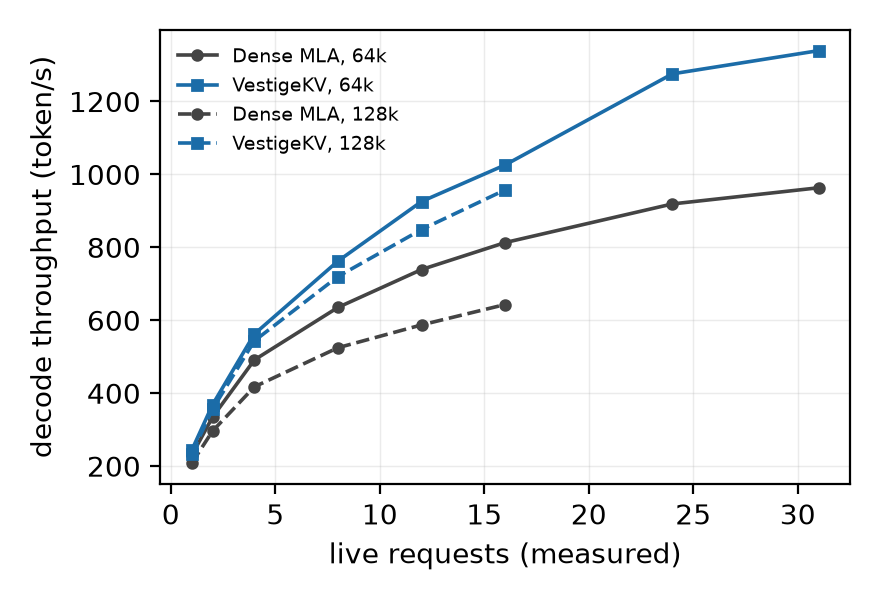
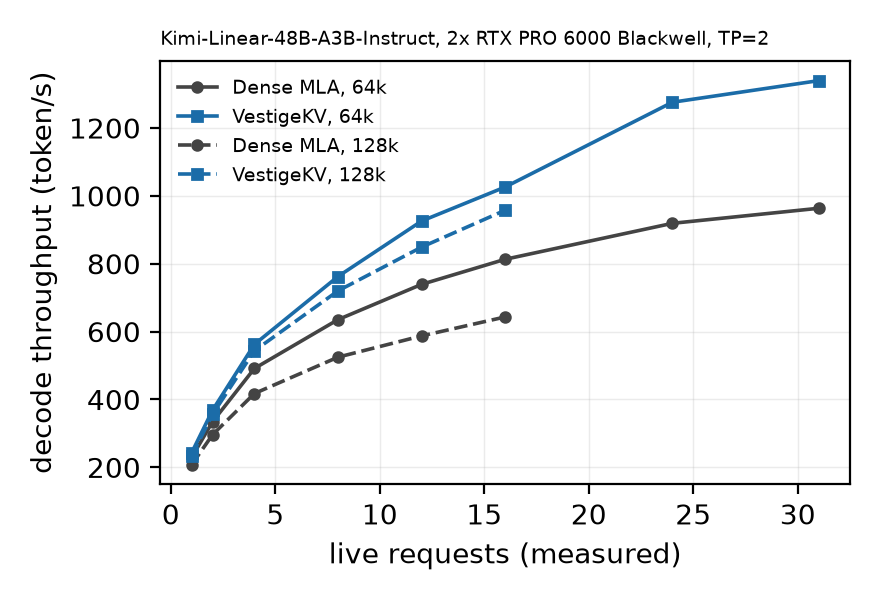
README: quality tables generated from the records; figures name the setup
The Results-at-a-glance section gains the GSM8K-Platinum, MAUVE (4k and 64k
prefill) and RULER (13 tasks x 4k-64k, n=50, Base and Instruct) tables,
written by mexp/kimi/make_readme_tables.py between markers through the same
parsers the paper's macro generators use. The four MAUVE verdict records the
paper cites by name were dropped from results/ by the archive commit and are
restored under results/quality/ (177 bytes each).

make_figures.py titles both panels with the checkpoint and TP width read from
the plotted server logs (required to agree across them) plus the box, and the
README's figure note names the script that actually draws them.

diff --git a/mexp/kimi/make_readme_tables.py b/mexp/kimi/make_readme_tables.py
@@ -1,0 +1,162 @@
+#!/usr/bin/env python3
+"""Write the README's quality tables from the records the paper's macros read.
+
+    python mexp/kimi/make_readme_tables.py           # print, compare
+    python mexp/kimi/make_readme_tables.py --emit    # rewrite the README block
+
+The block between the two `<!-- quality-tables:... -->` markers in README.md is
+generated; nothing inside it is typed. Every number comes through the same
+parsers the paper's macro generators use (make_ruler_numbers, make_gsm8k_numbers)
+or from the MAUVE verdict records under results/quality/, so the README, the
+paper and the records cannot disagree without this script saying so.
+"""
+from __future__ import annotations
+
+import argparse
+import json
+import os
+import sys
+
+HERE = os.path.dirname(os.path.abspath(__file__))
+ROOT = os.path.dirname(os.path.dirname(HERE))
+sys.path.insert(0, HERE)
+
+import make_gsm8k_numbers as gsm  # noqa: E402
+import make_ruler_numbers as ruler  # noqa: E402
+
+README = os.path.join(ROOT, "README.md")
+BEGIN = "<!-- quality-tables:begin (generated by mexp/kimi/make_readme_tables.py; do not edit) -->"
+END = "<!-- quality-tables:end -->"
+QUALITY = os.path.join(ROOT, "results", "quality")
+LENGTHS = [4096, 8192, 16384, 32768, 65536]
+N_RULER = 50
+# (display, ruler line, gsm8k macro suffix, mauve record suffix)
+CHECKPOINTS = [("Base", "kimi_base", "", "base"), ("Instruct", "kimi", "I", "instruct")]
+SETUP = "Kimi-Linear-48B-A3B, 2x RTX PRO 6000 Blackwell, TP=2"
+
+
+def mauve(name):
+    p = os.path.join(QUALITY, name)
+    if not os.path.exists(p):
+        return None
+    j = json.load(open(p))
+    return j["mauve_eng"], j["mauve_vk"], j["n_ctx"], j["gen_tokens"], j["verdict"]
+
+
+def fmt_pct(v):
+    return "pending" if v is None else f"{v:.2f}"
+
+
+def headline_rows():
+    """The four (checkpoint x arm) cells the paper's Table 1 prints."""
+    rows = []
+    # GSM8K-Platinum: counts, the way the macros carry them
+    cells = []
+    for _, _, suf, _ in CHECKPOINTS:
+        for arm, mac in (("baseline", "Base"), ("vestigekv", "Vk")):
+            r = gsm.read(arm, gsm.ARMS[(arm, mac + suf)])
+            cells.append("pending" if r is None else f"{r[0]} / {r[1]} ({100 * r[0] / r[1]:.1f}%)")
+    rows.append(("GSM8K-Platinum, 64-shot, full set", cells))
+    # MAUVE, short and long prefill
+    for label, stem in (("MAUVE, 4k prefill", "quality_mauve_scores_{}.json"),
+                        ("MAUVE, 64k prefill", "quality_mauve64k64_verdict{}.json")):
+        cells, note = [], ""
+        for _, _, _, msuf in CHECKPOINTS:
+            name = stem.format(msuf if "scores" in stem else ("_" + msuf if msuf == "instruct" else ""))
+            m = mauve(name)
+            if m is None:
+                cells += ["pending", "pending"]
+                continue
+            eng, vk, n_ctx, gen, verdict = m
+            cells += [f"{eng:.4f}", f"{vk:.4f}"]
+            note = f" ({n_ctx} contexts x {gen} generated tokens, gate vk >= dense - 0.10: {verdict})"
+        rows.append((label + note, cells))
+    # RULER mean over the 13-task x 5-length grid
+    cells = []
+    for _, line, _, _ in CHECKPOINTS:
+        for arm in ("baseline", "vestigekv"):
+            r = ruler.load(line, arm, N_RULER, LENGTHS)
+            vals = [ruler.cell(r, t, l) for t in ruler.TASKS for l in LENGTHS] if r else []
+            vals = [v for v in vals if v is not None]
+            cells.append("pending" if not vals else f"{sum(vals) / len(vals):.3f}")
+    rows.append((f"RULER mean, 13 tasks x 4k-64k, n={N_RULER}/cell", cells))
+    return rows
+
+
+def ruler_grid(display, line):
+    arms = {a: ruler.load(line, a, N_RULER, LENGTHS) for a in ("baseline", "vestigekv")}
+    if any(r is None for r in arms.values()):
+        return [f"*RULER grid for {display}: pending*", ""]
+    out = [f"**RULER, {display} checkpoint** (dense / VestigeKV, accuracy, n={N_RULER} per cell):", "",
+           "| task | " + " | ".join(f"{l // 1024}k" for l in LENGTHS) + " | mean |",
+           "|---|" + "---|" * (len(LENGTHS) + 1)]
+    col_d = {l: [] for l in LENGTHS}
+    col_v = {l: [] for l in LENGTHS}
+    for t in ruler.TASKS:
+        ds = [ruler.cell(arms["baseline"], t, l) for l in LENGTHS]
+        vs = [ruler.cell(arms["vestigekv"], t, l) for l in LENGTHS]
+        for l, d, v in zip(LENGTHS, ds, vs):
+            if d is not None and v is not None:
+                col_d[l].append(d)
+                col_v[l].append(v)
+        md = [d for d in ds if d is not None]
+        mv = [v for v in vs if v is not None]
+        cells = [f"{fmt_pct(d)} / {fmt_pct(v)}" for d, v in zip(ds, vs)]
+        mean = (f"{sum(md) / len(md):.3f} / {sum(mv) / len(mv):.3f}" if md and mv else "pending")
+        out.append(f"| {t} | " + " | ".join(cells) + f" | {mean} |")
+    means = [f"{sum(col_d[l]) / len(col_d[l]):.3f} / {sum(col_v[l]) / len(col_v[l]):.3f}"
+             if col_d[l] else "pending" for l in LENGTHS]
+    alld = [x for l in LENGTHS for x in col_d[l]]
+    allv = [x for l in LENGTHS for x in col_v[l]]
+    out.append("| **mean** | " + " | ".join(means)
+               + f" | **{sum(alld) / len(alld):.3f} / {sum(allv) / len(allv):.3f}** |")
+    out.append("")
+    return out
+
+
+def render():
+    L = [BEGIN, "", f"**Quality** ({SETUP}; dense = the same tree with `--attention-backend triton`,",
+         "VestigeKV = `--attention-backend vestigekv_mla`, seed 0, greedy):", "",
+         "| | Base, dense | Base, VestigeKV | Instruct, dense | Instruct, VestigeKV |",
+         "|---|---|---|---|---|"]
+    for label, cells in headline_rows():
+        L.append(f"| {label} | " + " | ".join(cells) + " |")
+    L.append("")
+    L.append("GSM8K-Platinum is madrylab/gsm8k-platinum (n=1209, label-corrected gsm8k test set), "
+             "64-shot, exact match on the final answer. MAUVE is scored against the reference "
+             "continuations of the same prompts (`mexp/m7_mauve_serving.py`); the 4k and 64k rows "
+             "differ in prefill length. RULER is lm-eval's 13-task suite; the 4k-64k grid below "
+             "is the one the paper's Table reads (`mexp/kimi/make_ruler_numbers.py`). Records: "
+             "`results/kimi/gsm8k_*`, `results/quality/quality_mauve*.json`, "
+             "`results/kimi/ruler/results_*_n50_*.json`.")
+    L.append("")
+    for display, line, _, _ in CHECKPOINTS:
+        L += ruler_grid(display, line)
+    L.append(END)
+    return "\n".join(L)
+
+
+def main():
+    ap = argparse.ArgumentParser()
+    ap.add_argument("--emit", action="store_true")
+    a = ap.parse_args()
+    block = render()
+    text = open(README).read()
+    i, j = text.find(BEGIN), text.find(END)
+    if i < 0 or j < 0:
+        raise SystemExit("ABORT: README.md carries no quality-tables markers")
+    new = text[:i] + block + text[j + len(END):]
+    if new == text:
+        print("README block already current")
+        return 0
+    if a.emit:
+        open(README, "w").write(new)
+        print(f"README block rewritten ({block.count(chr(10))} lines)")
+    else:
+        print(block)
+        print("\n(dry run; --emit to write)")
+    return 0
+
+
+if __name__ == "__main__":
+    raise SystemExit(main())

diff --git a/mexp/kimi/make_figures.py b/mexp/kimi/make_figures.py
@@ -24,7 +24,9 @@ queue is live).
 from __future__ import annotations
 
 import argparse
+import glob
 import os
+import re
 import sys
 
 HERE = os.path.dirname(os.path.abspath(__file__))
@@ -43,6 +45,32 @@ ARM_STYLE = {"dense": ("#444444", "o", "Dense MLA"),
              "vestigekv": ("#1b6ca8", "s", "VestigeKV")}
 LAT_KEY = {"dense": "dense", "vestigekv": "vestigekv"}
 THR_KEY = {"dense": "baseline", "vestigekv": "vestigekv"}
+# The box the logs were produced on (mexp/kimi/common.sh); the logs carry the
+# model and the TP width but not the GPU, so this one string is typed.
+HARDWARE = "2x RTX PRO 6000 Blackwell"
+
+
+def provenance():
+    """'<model>, <hardware>, TP=<n>' for the panel titles, read from every
+    server log a panel draws from and required to agree -- a figure that
+    named a model its data did not come from would be the caption drift this
+    script exists to remove, one level up."""
+    logs = [os.path.join(speed.RESULTS, n) for n in speed.LOGS.values()]
+    for _, (_, prefix) in tput.CONTEXTS.items():
+        logs += glob.glob(os.path.join(tput.RESULTS, f"server_*_{prefix}-bs*.log"))
+    models, tps = set(), set()
+    for path in logs:
+        head = open(path, errors="replace").read(400000)
+        m = re.search(r"'model_path': '([^']*)'", head)
+        t = re.search(r"'tp_size': (\d+)", head)
+        if not (m and t):
+            raise SystemExit(f"ABORT: {os.path.basename(path)} carries no model_path/tp_size")
+        models.add(m.group(1).split("/")[-1])
+        tps.add(t.group(1))
+    if len(models) != 1 or len(tps) != 1:
+        raise SystemExit(f"ABORT: the panels' logs disagree on model {sorted(models)} "
+                         f"or TP {sorted(tps)}; one figure cannot show two setups")
+    return f"{models.pop()}, {HARDWARE}, TP={tps.pop()}"
 
 
 def latency_series():
@@ -72,13 +100,14 @@ def throughput_series():
     return have
 
 
-def draw(lat, thr, out_dir, emit):
+def draw(lat, thr, out_dir, emit, title):
     import matplotlib
     matplotlib.use("Agg")
     import matplotlib.pyplot as plt
 
     # ---- left: per-token latency against context ----
     fig, ax = plt.subplots(figsize=(4.4, 3.0), dpi=200)
+    ax.set_title(title, fontsize=7, loc="left")
     for arm, (color, marker, label) in ARM_STYLE.items():
         xs = [c / 1024 for c, _ in lat[LAT_KEY[arm]]]
         ys = [v for _, v in lat[LAT_KEY[arm]]]
@@ -105,6 +134,7 @@ def draw(lat, thr, out_dir, emit):
 
     # ---- right: throughput against the concurrency the server actually ran ----
     fig, ax = plt.subplots(figsize=(4.4, 3.0), dpi=200)
+    ax.set_title(title, fontsize=7, loc="left")
     dash = {65536: "-", 131072: "--"}
     for ctx in sorted(thr):
         if not thr[ctx]:
@@ -142,7 +172,9 @@ def main():
     thr = throughput_series()
     for ctx in sorted(thr):
         print(f"  throughput {ctx // 1024}k: live {sorted(thr[ctx])}")
-    draw(lat, thr, a.out, a.emit)
+    title = provenance()
+    print(f"  title: {title}")
+    draw(lat, thr, a.out, a.emit, title)
     return 0
 
 

diff --git a/README.md b/README.md
@@ -37,9 +37,64 @@ bf16; no quantization anywhere.
 | ![decode latency vs S](results/fig_latency_curve.png) | bs=1 streaming decode: one request prefilled at 4k and decoded continuously to 512k; per-token latency vs. sequence length, vestigekv vs. dense (same tree, triton backend). Crossover ~28k; 1.28x at 256k, 1.46x at 496k. |
 | ![throughput vs batch](results/fig_throughput.png) | Throughput: 64k prefill + 4k decode, batch 1..32; attention cannot batch while shared weights amortize, so the vestigekv advantage grows with batch (+12.4% at bs=12). |
 
-*(Both figures are produced by `mexp/bench/plot_curve_jsonl.py` and
-`plot_batch_throughput.py` from the frozen raw data in `results/`; the exact
+*(Both figures are produced by `mexp/kimi/make_figures.py --emit --out results/`
+from the same server logs the paper's macros are read from; the panel title
+names the checkpoint and the box as read from those logs. The exact
 collection commands are in the experiment steps below.)*
+
+<!-- quality-tables:begin (generated by mexp/kimi/make_readme_tables.py; do not edit) -->
+
+**Quality** (Kimi-Linear-48B-A3B, 2x RTX PRO 6000 Blackwell, TP=2; dense = the same tree with `--attention-backend triton`,
+VestigeKV = `--attention-backend vestigekv_mla`, seed 0, greedy):
+
+| | Base, dense | Base, VestigeKV | Instruct, dense | Instruct, VestigeKV |
+|---|---|---|---|---|
+| GSM8K-Platinum, 64-shot, full set | 1027 / 1209 (84.9%) | 1031 / 1209 (85.3%) | 1107 / 1209 (91.6%) | 1097 / 1209 (90.7%) |
+| MAUVE, 4k prefill (16 contexts x 256 generated tokens, gate vk >= dense - 0.10: PASS) | 0.9997 | 0.9960 | 0.9345 | 0.9805 |
+| MAUVE, 64k prefill (64 contexts x 256 generated tokens, gate vk >= dense - 0.10: PASS) | 0.9954 | 0.9987 | 0.9905 | 0.9861 |
+| RULER mean, 13 tasks x 4k-64k, n=50/cell | 0.922 | 0.860 | 0.942 | 0.920 |
+
+GSM8K-Platinum is madrylab/gsm8k-platinum (n=1209, label-corrected gsm8k test set), 64-shot, exact match on the final answer. MAUVE is scored against the reference continuations of the same prompts (`mexp/m7_mauve_serving.py`); the 4k and 64k rows differ in prefill length. RULER is lm-eval's 13-task suite; the 4k-64k grid below is the one the paper's Table reads (`mexp/kimi/make_ruler_numbers.py`). Records: `results/kimi/gsm8k_*`, `results/quality/quality_mauve*.json`, `results/kimi/ruler/results_*_n50_*.json`.
+
+**RULER, Base checkpoint** (dense / VestigeKV, accuracy, n=50 per cell):
+
+| task | 4k | 8k | 16k | 32k | 64k | mean |
+|---|---|---|---|---|---|---|
+| niah_single_1 | 1.00 / 1.00 | 1.00 / 1.00 | 1.00 / 1.00 | 1.00 / 1.00 | 1.00 / 1.00 | 1.000 / 1.000 |
+| niah_single_2 | 1.00 / 1.00 | 1.00 / 1.00 | 1.00 / 1.00 | 1.00 / 1.00 | 1.00 / 1.00 | 1.000 / 1.000 |
+| niah_single_3 | 1.00 / 1.00 | 1.00 / 0.98 | 1.00 / 1.00 | 1.00 / 1.00 | 1.00 / 1.00 | 1.000 / 0.996 |
+| niah_multikey_1 | 1.00 / 1.00 | 0.98 / 0.98 | 1.00 / 1.00 | 1.00 / 1.00 | 1.00 / 0.98 | 0.996 / 0.992 |
+| niah_multikey_2 | 1.00 / 1.00 | 1.00 / 0.90 | 1.00 / 0.86 | 1.00 / 0.86 | 1.00 / 0.76 | 1.000 / 0.876 |
+| niah_multikey_3 | 1.00 / 1.00 | 1.00 / 0.64 | 1.00 / 0.34 | 1.00 / 0.22 | 1.00 / 0.16 | 1.000 / 0.472 |
+| niah_multiquery | 1.00 / 1.00 | 1.00 / 1.00 | 1.00 / 1.00 | 1.00 / 1.00 | 1.00 / 1.00 | 1.000 / 1.000 |
+| niah_multivalue | 0.97 / 0.96 | 0.97 / 0.97 | 0.97 / 0.98 | 0.99 / 0.99 | 0.99 / 1.00 | 0.981 / 0.980 |
+| ruler_vt | 1.00 / 1.00 | 1.00 / 1.00 | 1.00 / 1.00 | 1.00 / 0.99 | 1.00 / 1.00 | 1.000 / 0.998 |
+| ruler_cwe | 1.00 / 0.99 | 0.94 / 0.94 | 0.93 / 0.92 | 0.72 / 0.61 | 0.25 / 0.13 | 0.768 / 0.717 |
+| ruler_fwe | 0.97 / 0.97 | 0.96 / 0.95 | 0.99 / 0.97 | 0.98 / 0.97 | 0.91 / 0.79 | 0.960 / 0.933 |
+| ruler_qa_squad | 0.72 / 0.72 | 0.69 / 0.66 | 0.67 / 0.57 | 0.62 / 0.61 | 0.60 / 0.54 | 0.659 / 0.622 |
+| ruler_qa_hotpot | 0.62 / 0.62 | 0.64 / 0.60 | 0.62 / 0.58 | 0.64 / 0.58 | 0.60 / 0.56 | 0.624 / 0.588 |
+| **mean** | 0.944 / 0.943 | 0.937 / 0.894 | 0.937 / 0.863 | 0.920 / 0.834 | 0.873 / 0.764 | **0.922 / 0.860** |
+
+**RULER, Instruct checkpoint** (dense / VestigeKV, accuracy, n=50 per cell):
+
+| task | 4k | 8k | 16k | 32k | 64k | mean |
+|---|---|---|---|---|---|---|
+| niah_single_1 | 1.00 / 1.00 | 1.00 / 1.00 | 1.00 / 1.00 | 0.96 / 0.96 | 0.96 / 0.98 | 0.984 / 0.988 |
+| niah_single_2 | 1.00 / 1.00 | 1.00 / 1.00 | 1.00 / 1.00 | 1.00 / 1.00 | 1.00 / 1.00 | 1.000 / 1.000 |
+| niah_single_3 | 1.00 / 1.00 | 1.00 / 1.00 | 1.00 / 1.00 | 1.00 / 1.00 | 1.00 / 1.00 | 1.000 / 1.000 |
+| niah_multikey_1 | 1.00 / 1.00 | 1.00 / 1.00 | 1.00 / 1.00 | 1.00 / 1.00 | 1.00 / 1.00 | 1.000 / 1.000 |
+| niah_multikey_2 | 1.00 / 1.00 | 1.00 / 0.98 | 1.00 / 0.92 | 1.00 / 0.90 | 1.00 / 0.92 | 1.000 / 0.944 |
+| niah_multikey_3 | 1.00 / 1.00 | 1.00 / 0.92 | 1.00 / 0.84 | 1.00 / 0.84 | 1.00 / 0.76 | 1.000 / 0.872 |
+| niah_multiquery | 1.00 / 1.00 | 1.00 / 1.00 | 1.00 / 1.00 | 1.00 / 1.00 | 1.00 / 1.00 | 1.000 / 1.000 |
+| niah_multivalue | 1.00 / 1.00 | 1.00 / 1.00 | 1.00 / 1.00 | 0.99 / 0.99 | 1.00 / 1.00 | 0.998 / 0.999 |
+| ruler_vt | 1.00 / 1.00 | 1.00 / 1.00 | 1.00 / 1.00 | 1.00 / 1.00 | 1.00 / 1.00 | 0.999 / 0.999 |
+| ruler_cwe | 0.99 / 1.00 | 0.97 / 0.95 | 0.98 / 0.98 | 0.98 / 0.98 | 0.97 / 0.97 | 0.977 / 0.977 |
+| ruler_fwe | 0.79 / 0.79 | 0.97 / 0.97 | 0.99 / 0.98 | 0.98 / 0.95 | 0.71 / 0.69 | 0.885 / 0.875 |
+| ruler_qa_squad | 0.79 / 0.78 | 0.78 / 0.73 | 0.74 / 0.67 | 0.74 / 0.71 | 0.76 / 0.64 | 0.760 / 0.704 |
+| ruler_qa_hotpot | 0.70 / 0.66 | 0.68 / 0.66 | 0.62 / 0.60 | 0.60 / 0.56 | 0.62 / 0.54 | 0.644 / 0.604 |
+| **mean** | 0.944 / 0.940 | 0.953 / 0.940 | 0.948 / 0.922 | 0.942 / 0.915 | 0.924 / 0.884 | **0.942 / 0.920** |
+
+<!-- quality-tables:end -->
 
 ## The vestigekv startup transient, and why bs=1 sits near dense
 
